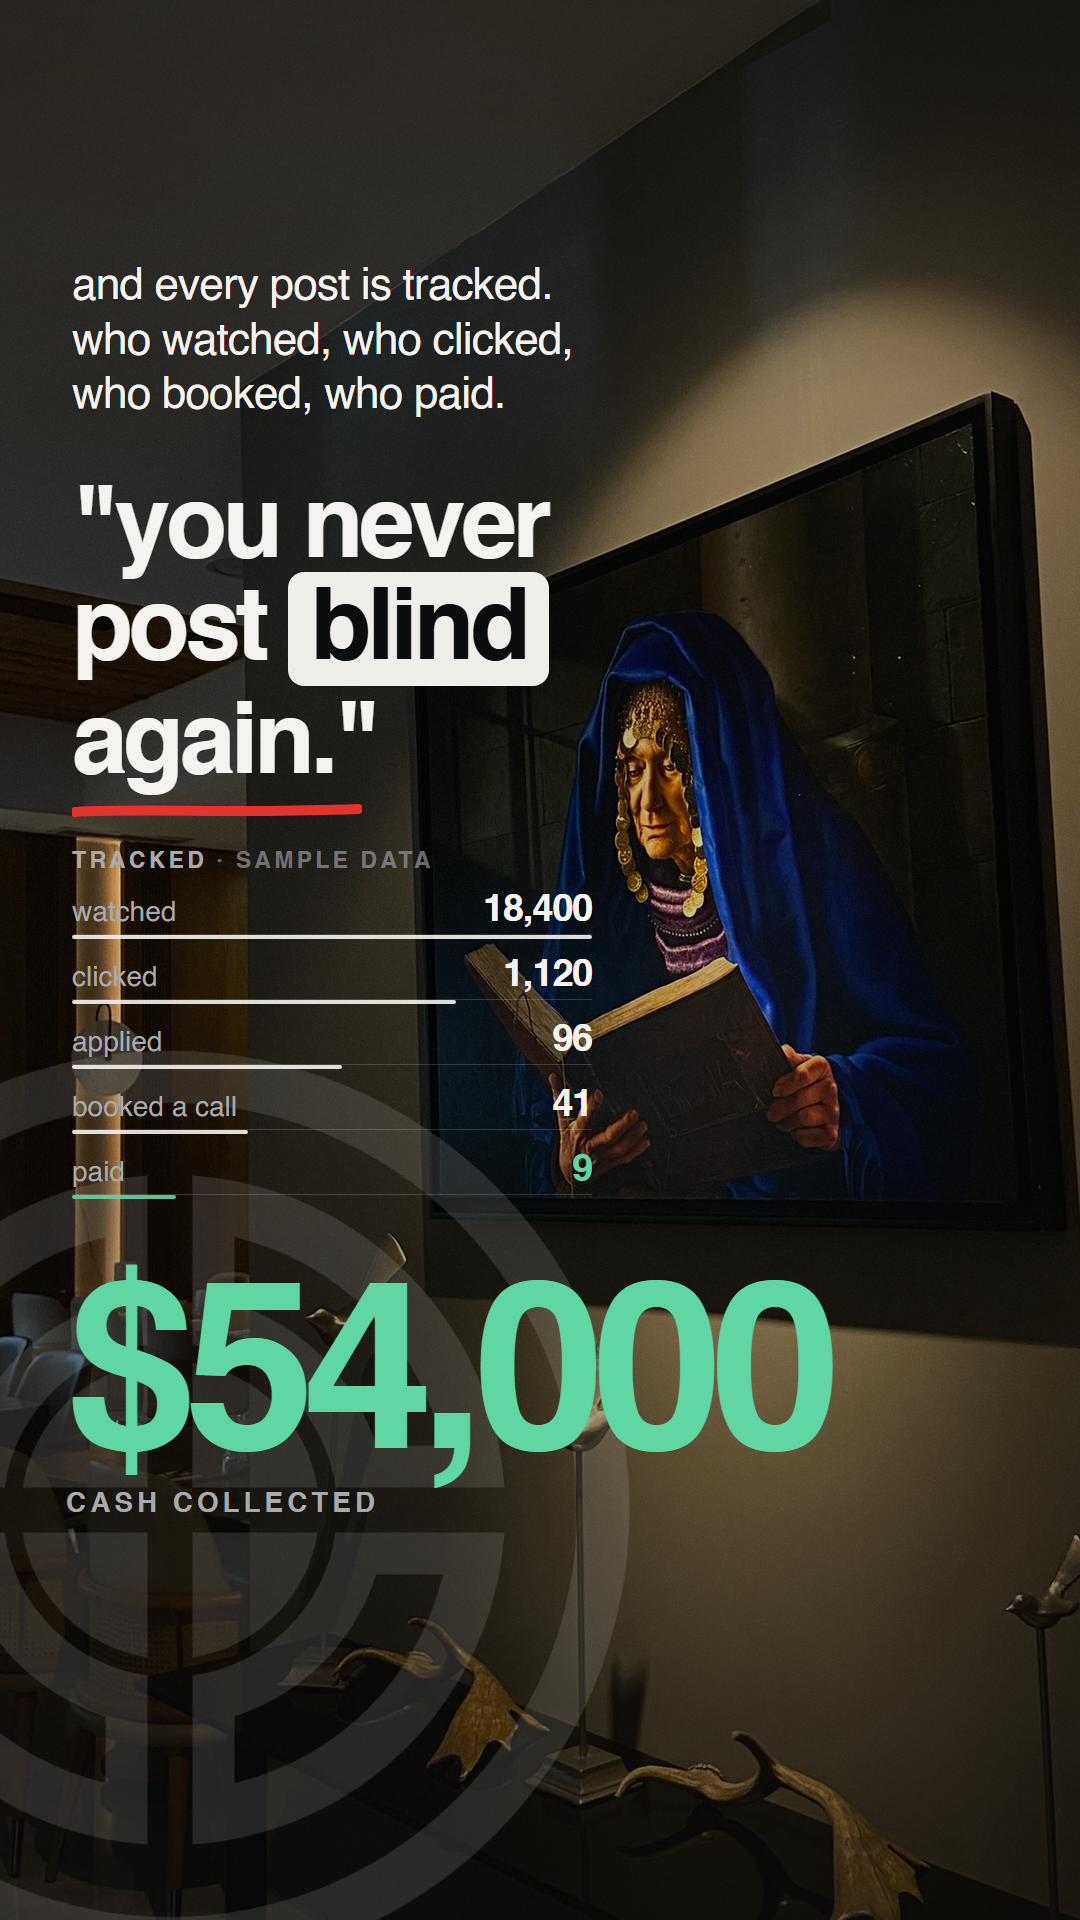
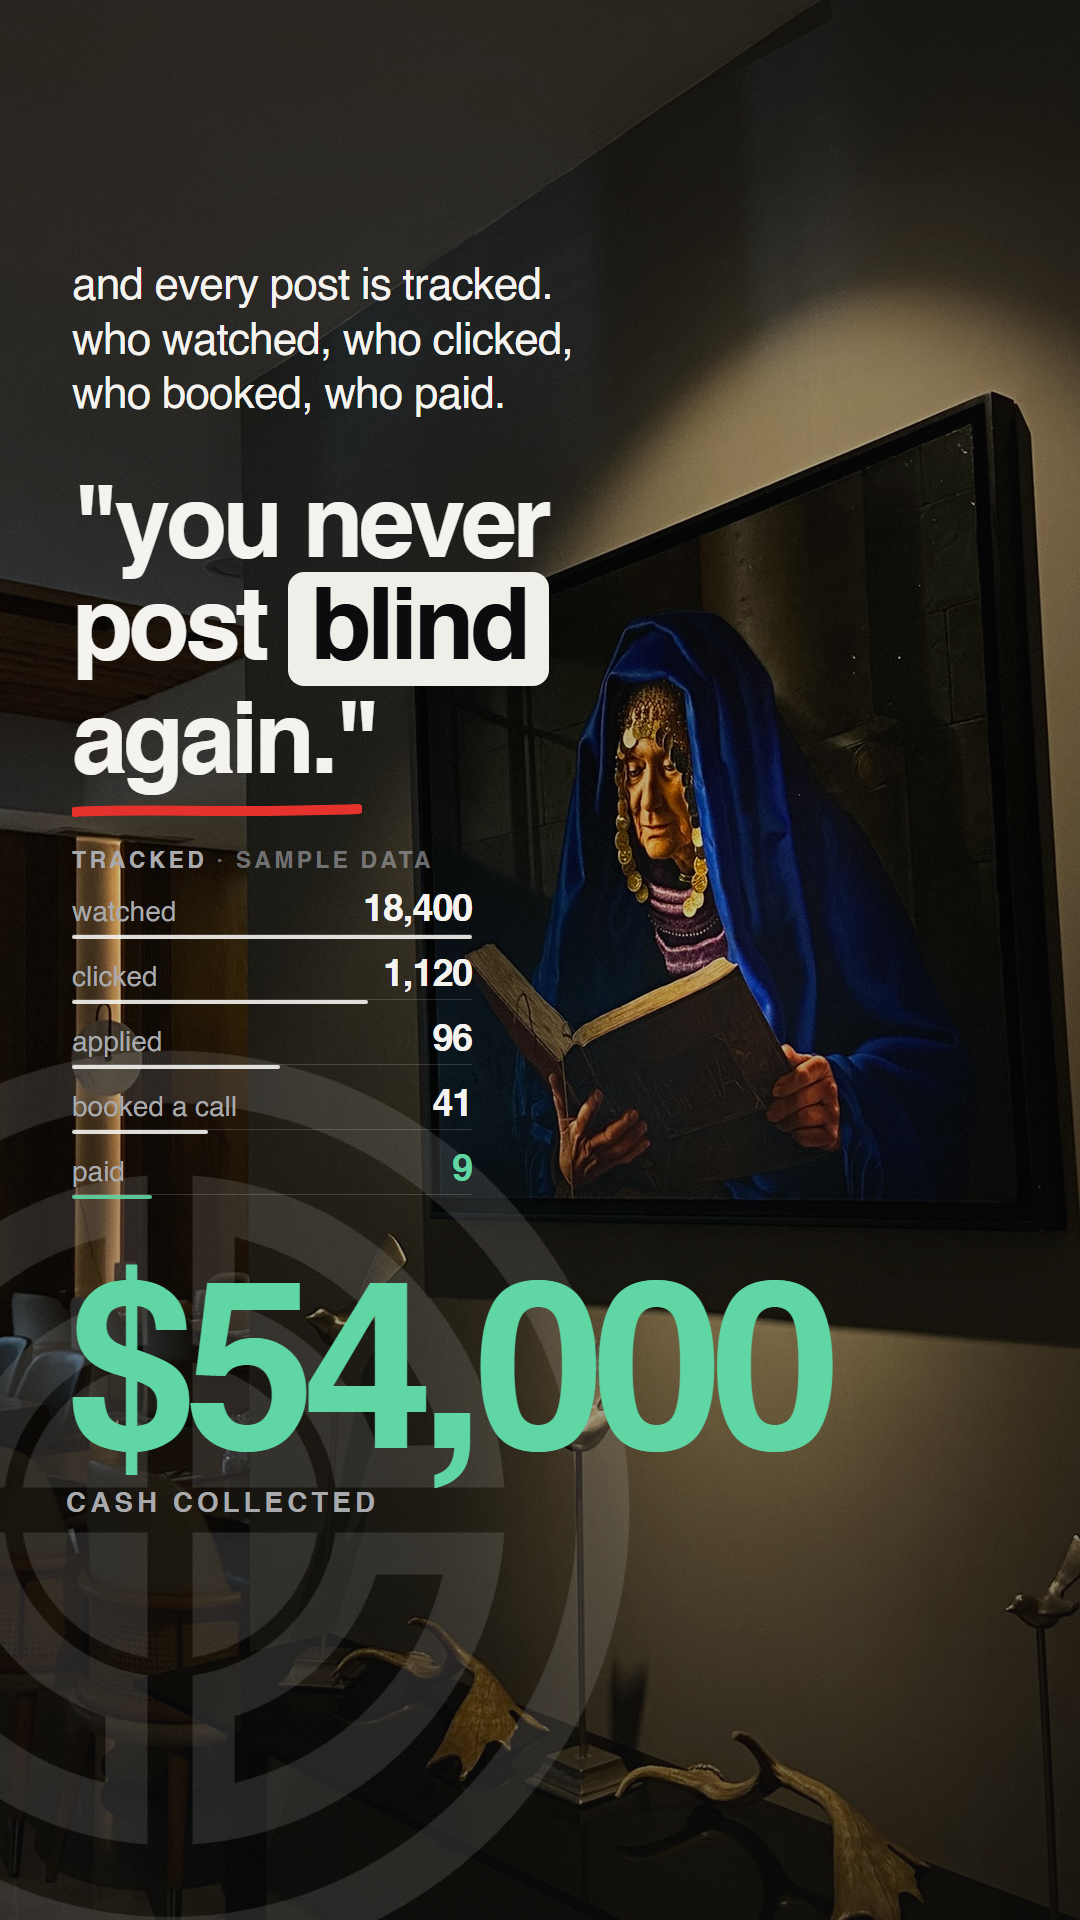
auto: checkpoint 2026-10-07 17:34:30

Changed region(s): [[0.3361, 0.4688, 0.55, 0.625], [0.4278, 0.5938, 0.4583, 0.625]]

diff --git a/AGENT_CHAT.md b/AGENT_CHAT.md
@@ -3023,3 +3023,6 @@ claude-v2 rebuilt in the parked-homepage language (build3.py): graphite, warm of
 
 ### [2026-10-07] CLAUDE
 claude-v2 round 3 (build4.py): photos at natural exposure (no lift), slide 1 now photo 14 (pen and journal, shifted down so the face clears the text), month dots removed, chain runs top to bottom with numbers 1-6, slide 12 numbers cranked (22 and $7,500 huge) and the demo label removed at founder request. Flag: figures are Example-workspace demo data.
+
+### [2026-10-07] CLAUDE
+claude-v2 round 4 (build5.py): corner logo pill removed; mark is now a branded visual behind the subject (slide 1: matte puts head+body in front of the mark), behind the chain (3) and behind the cash figure (12). Seam at the top of slide 1 fixed (stretched/blurred edge continuation + feather); tiled grain replaced with per-pixel dither. Pipeline strip replaced by own tracker (not the InfoOS strip). Sample figures: $54,000 cash, 9 paid, 41 booked; tagged "sample data" on the slide.
